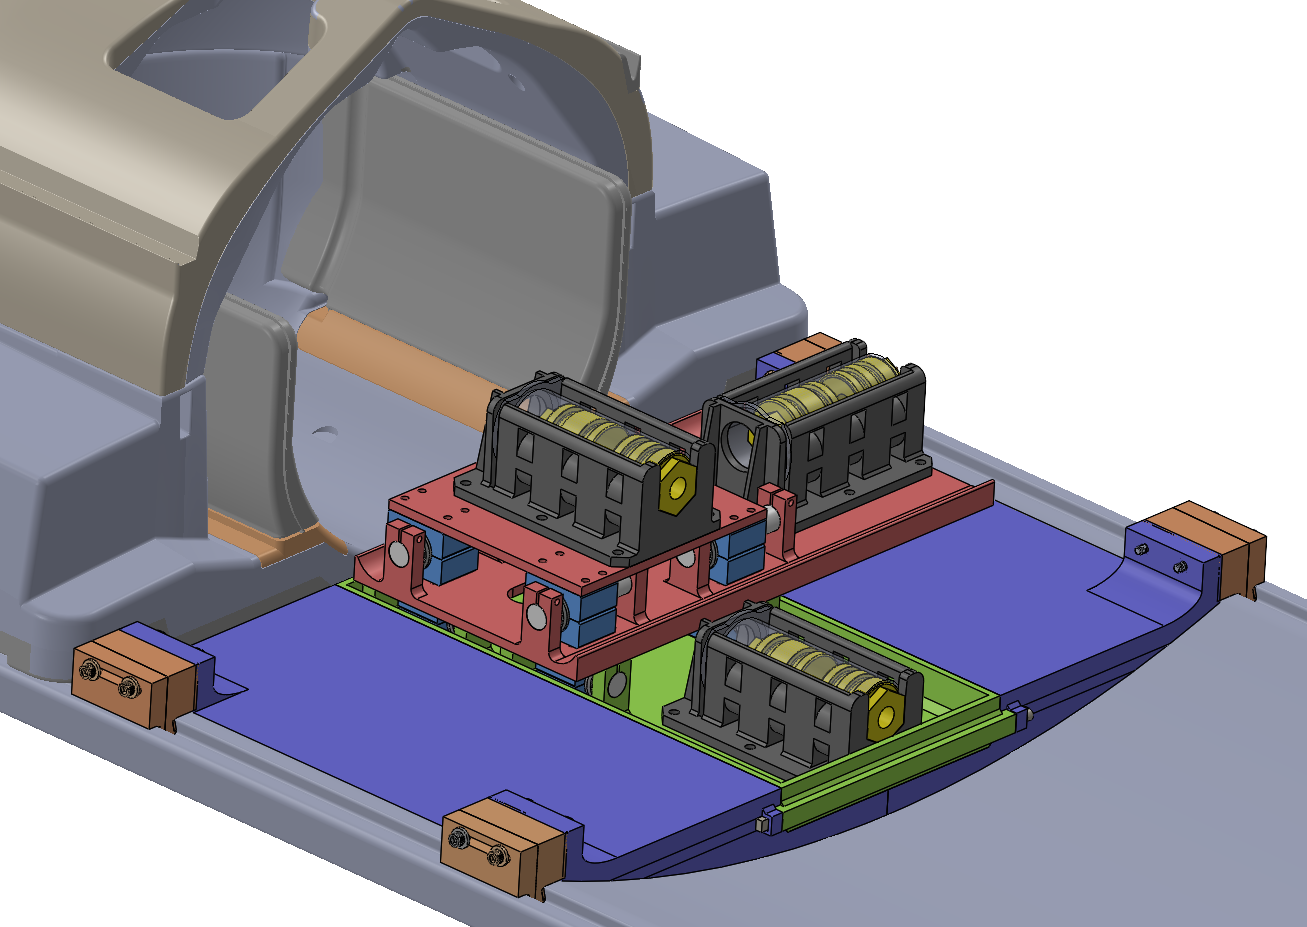
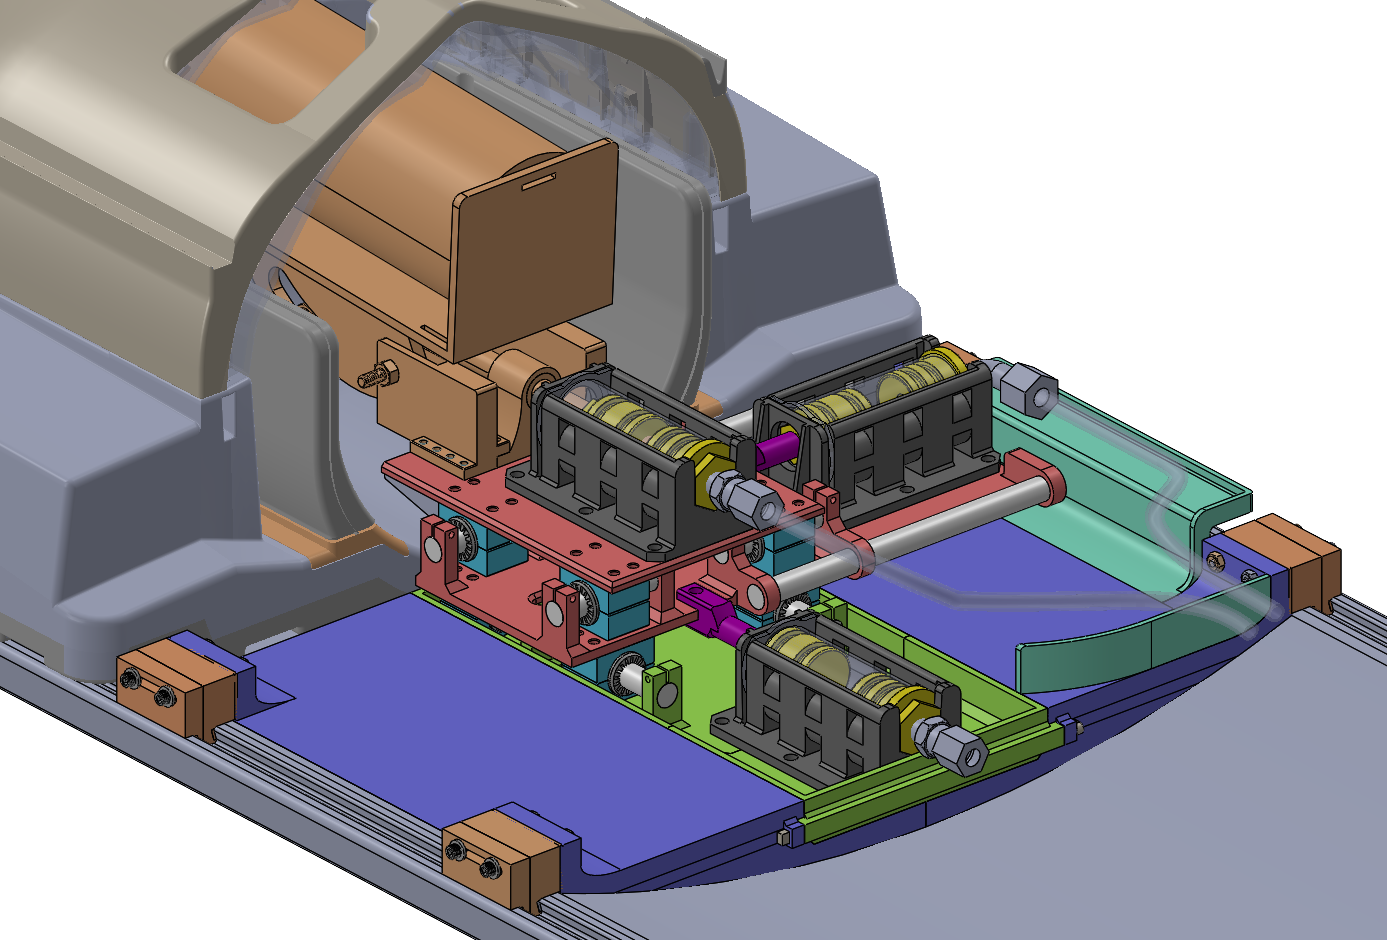
change fea images

diff --git a/index.html b/index.html
@@ -704,9 +704,9 @@
   <p>
     <u>Analysis Comparison:</u> While designing the second linear stage, I identified a structural issue caused 
     by the reaction force generated during fluid actuation. The pump force created a counteracting moment on one end, leading to excessive 
-    deflection that could compromise piston alignment and actuation accuracy. To address this, I optimized the structure and performed structural analysis in 
-    ANSYS to quantify end deflection. The optimized design achieved nearly 25% reduction in maximum deflection compared to the original configuration, 
-    with only minimal additional material and negligible weight increase. 
+    deflection that could compromise piston alignment and actuation accuracy. To address this, I optimized the structure by implementing two 1/2" diameter garolite rods on the sides to better distribute the load and 
+    resist bending. I then performed structural analysis in 
+    ANSYS to quantify end deflection. The optimized design reduced maximum deflection by a factor of five compared to the original configuration.
   </p>
 </div>
   `,
